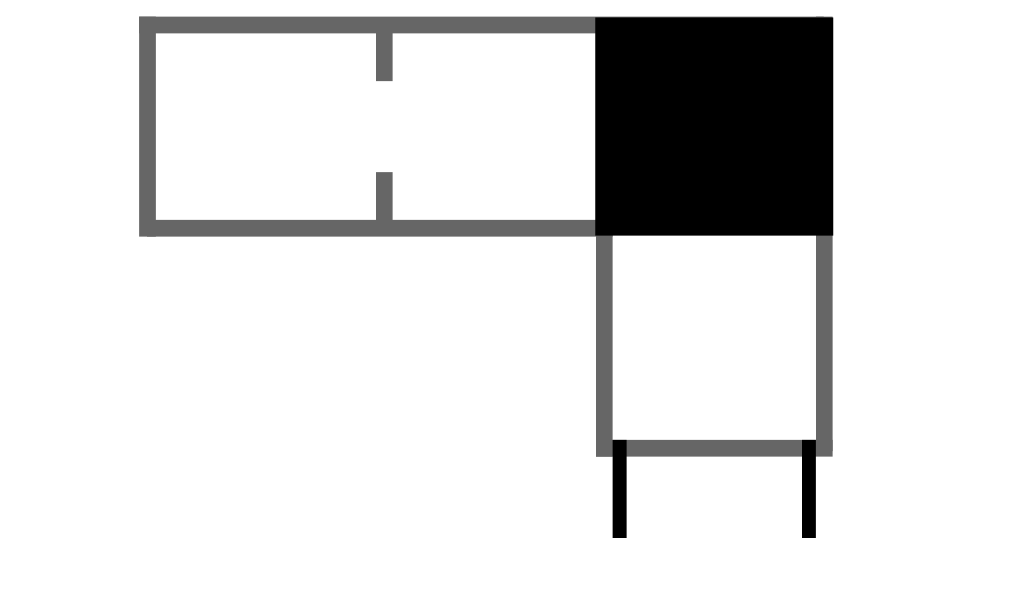
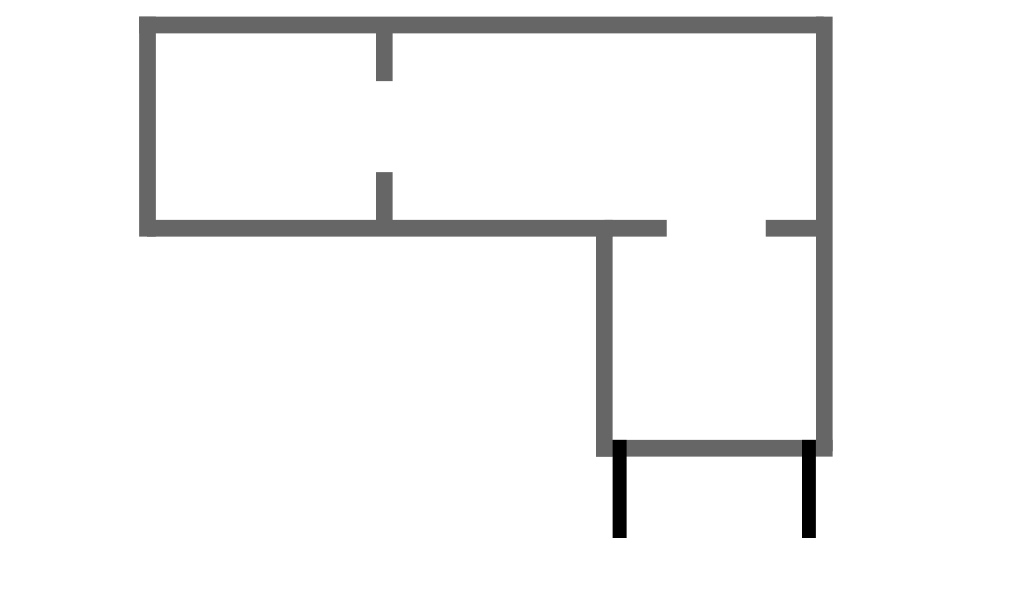
roof button works

Changed region(s): [[0.5625, 0.0305, 0.8125, 0.4271]]

diff --git a/public/js/spacehouse.js b/public/js/spacehouse.js
@@ -2,6 +2,9 @@ let bulbOn1 = false;
 let bulbOn2 = false;
 let bulbOn3 = false;
 
+let roofOn = false;
+let doorOpen = false;
+
 let bulb1 = document.getElementById('bulb1');
 let bulb2 = document.getElementById('bulb2');
 let bulb3 = document.getElementById('bulb3');
@@ -18,7 +21,7 @@ bulb1.addEventListener('click', function() {
 });
 
 bulb2.addEventListener('click', function() {
-  if (bulbOn2) {
+  if (!bulbOn2) {
     bulb2.setAttribute('src', 'assets/bulb-lit.png');
     //light the LED
   } else {
@@ -29,7 +32,7 @@ bulb2.addEventListener('click', function() {
 });
 
 bulb3.addEventListener('click', function() {
-  if (bulbOn3) {
+  if (!bulbOn3) {
     bulb3.setAttribute('src', 'assets/bulb-lit.png');
     //light the LED
   } else {
@@ -37,4 +40,23 @@ bulb3.addEventListener('click', function() {
     //turn off the LED
   }
   bulbOn3 = !bulbOn3;
+});
+
+let door = document.getElementById('door');
+let roof = document.getElementById('roof');
+let roofBtn = document.querySelector('#roof-switch input');
+
+roofBtn.addEventListener('change', function() {
+  if (!roofOn) {
+    roof.removeAttribute('hidden');
+    //update text on the side
+  } else {
+    roof.setAttribute('hidden', 'true');
+    //update text on the side
+  }
+  roofOn = !roofOn;
+});
+
+roof.addEventListener('click', function() {
+
 });

diff --git a/public/spacehouse.html b/public/spacehouse.html
@@ -23,6 +23,22 @@
 <div id="body">
 	<img id="floorplan" src="assets/spacehouse-door-closed.png">
 	<!-- change to door-opened when door opened; need user interface for this -->
+
+	<div id="door"></div>
+	<div id="roof" hidden></div>
+
+	<div id="roof-switch-container">
+		<p>Roof</p>
+		<div id="roof-switch" class="switch">
+	    <label>
+	      Off
+	      <input type="checkbox">
+	      <span class="lever"></span>
+	      On
+	    </label>
+	  </div>
+	</div>
+
 	<img src="assets/bulb.png" id="bulb1" class="bulb bulb1">
 	<img src="assets/bulb.png" id="bulb2" class="bulb bulb2">
 	<img src="assets/bulb.png" id="bulb3" class="bulb bulb3">

diff --git a/public/css/spacehouse.css b/public/css/spacehouse.css
@@ -2,6 +2,36 @@
   z-index: 0;
 }
 
+#roof {
+  width: 36vh;
+  height: 34vh;
+  background-color: #000;
+  position: absolute;
+  top: 6vh;
+  right: 15vw;
+}
+
+#roof-switch-container {
+  position: absolute;
+  top: 15vh;
+  right: 3vw;
+  color: #9e9e9e;
+  font-size: 2rem;
+
+}
+
+#roof-switch-container p {
+  margin: 0;
+}
+
+#roof-switch-container label {
+  font-size: 1rem;
+}
+
+#door {
+  position: absolute;
+}
+
 .bulb {
   width: 12vh;
   height: 12vh;
